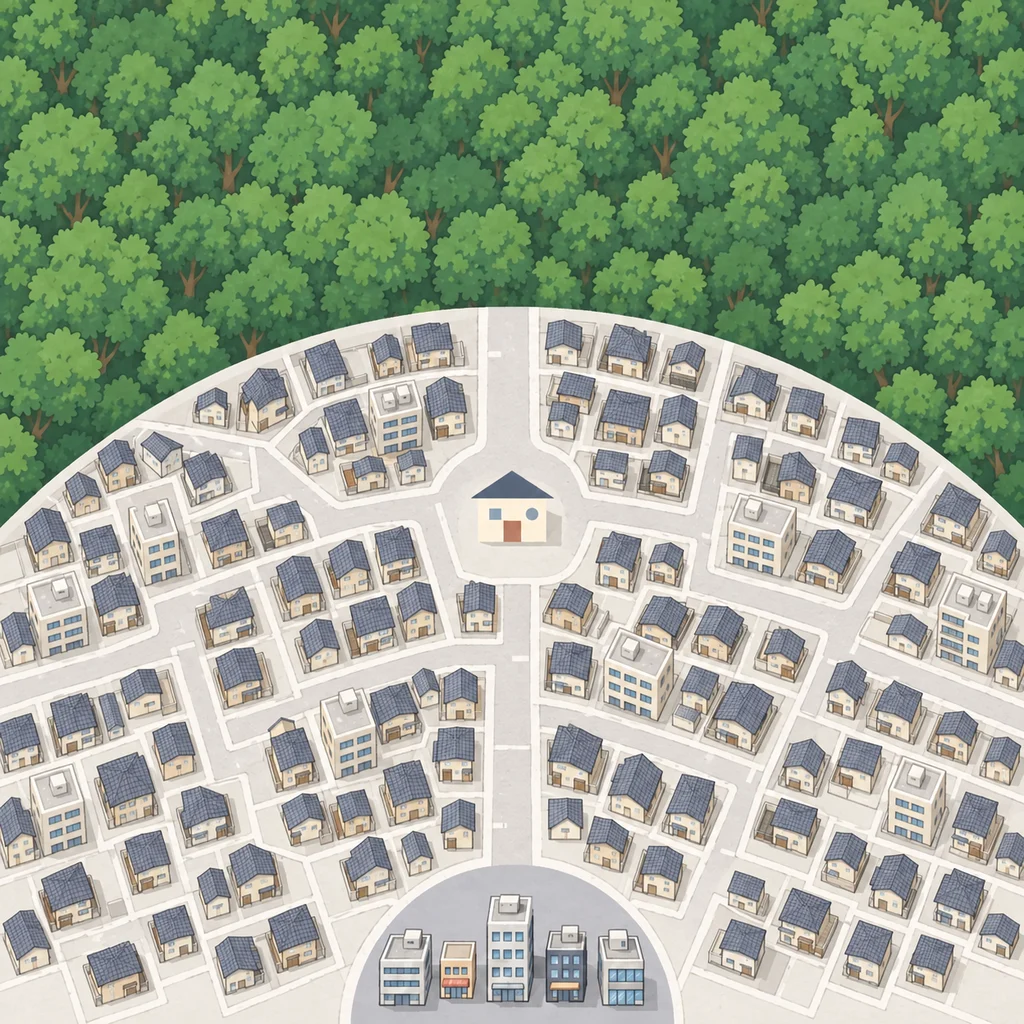
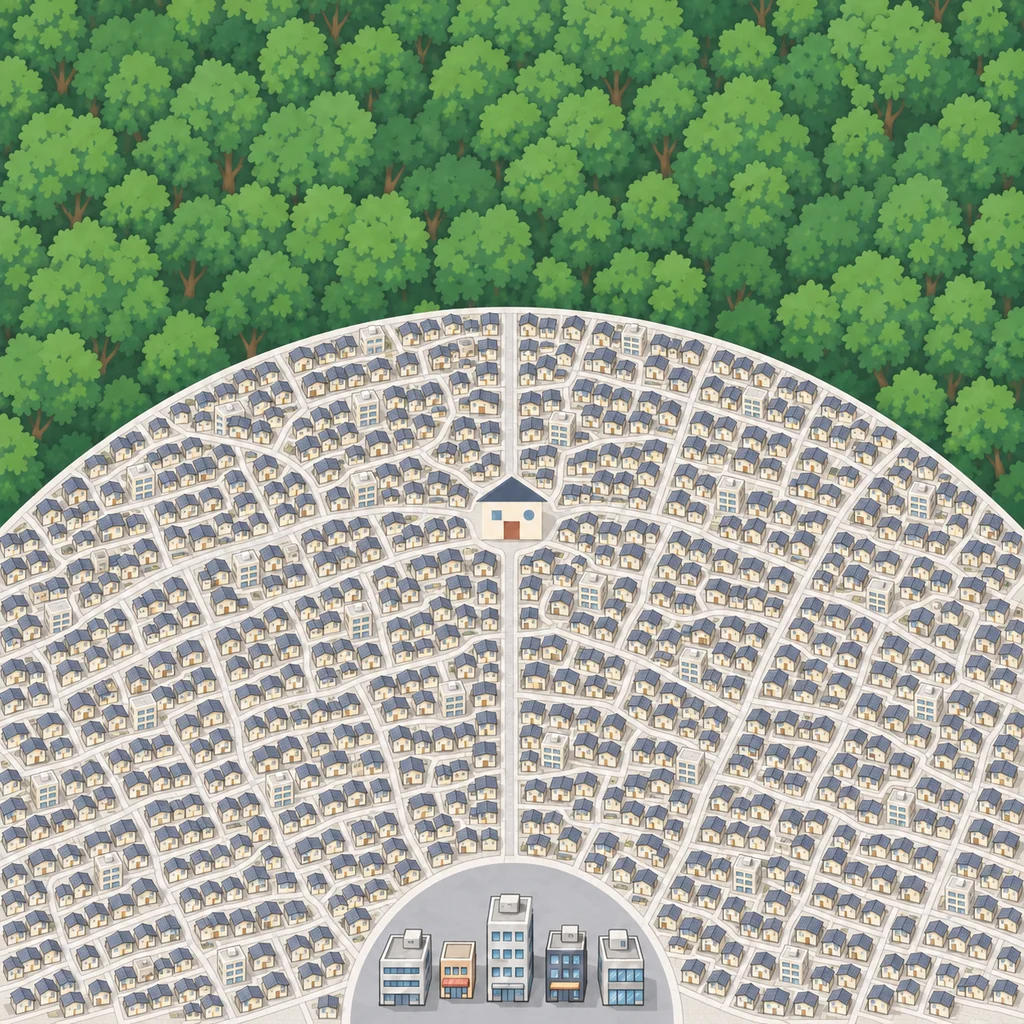
Densify residential blocks on the patrol map

diff --git a/site/game/patrol-map.js b/site/game/patrol-map.js
@@ -37,5 +37,5 @@ export function createPatrolMap(){
  const nodes=POINTS.map(([x,y],index)=>({id:index===0?'home':`n${String(index).padStart(2,'0')}`,x,y,region:getRegionAt(x,y)}));
  const edges=CONNECTIONS.map(([a,b])=>[nodes[a].id,nodes[b].id]);
  const edgeRegions=CONNECTIONS.map(([a,b])=>({edge:[nodes[a].id,nodes[b].id],segments:segmentRegions(nodes[a],nodes[b])}));
- return {id:'road-map-01',schemaVersion:1,nodes,edges,edgeRegions,origin:'home',backgroundUrl:'assets/patrol-map-background.webp?v=90ed7765751e4f360c15f8db5a86f75c0d4c20952e9697dc87d3608e922b8b41',temporary:false,bounds:{minX:0,minY:0,maxX:1,maxY:1},rules:{...PATROL_RULES},regionGeometry:{...REGION_GEOMETRY,center:[.5,1]}};
+ return {id:'road-map-01',schemaVersion:1,nodes,edges,edgeRegions,origin:'home',backgroundUrl:'assets/patrol-map-background.webp?v=b3f4c26a94b60630f256f3e52c4dc834d4657b0fb6ef73cbd522dee18e5a8854',temporary:false,bounds:{minX:0,minY:0,maxX:1,maxY:1},rules:{...PATROL_RULES},regionGeometry:{...REGION_GEOMETRY,center:[.5,1]}};
 }
